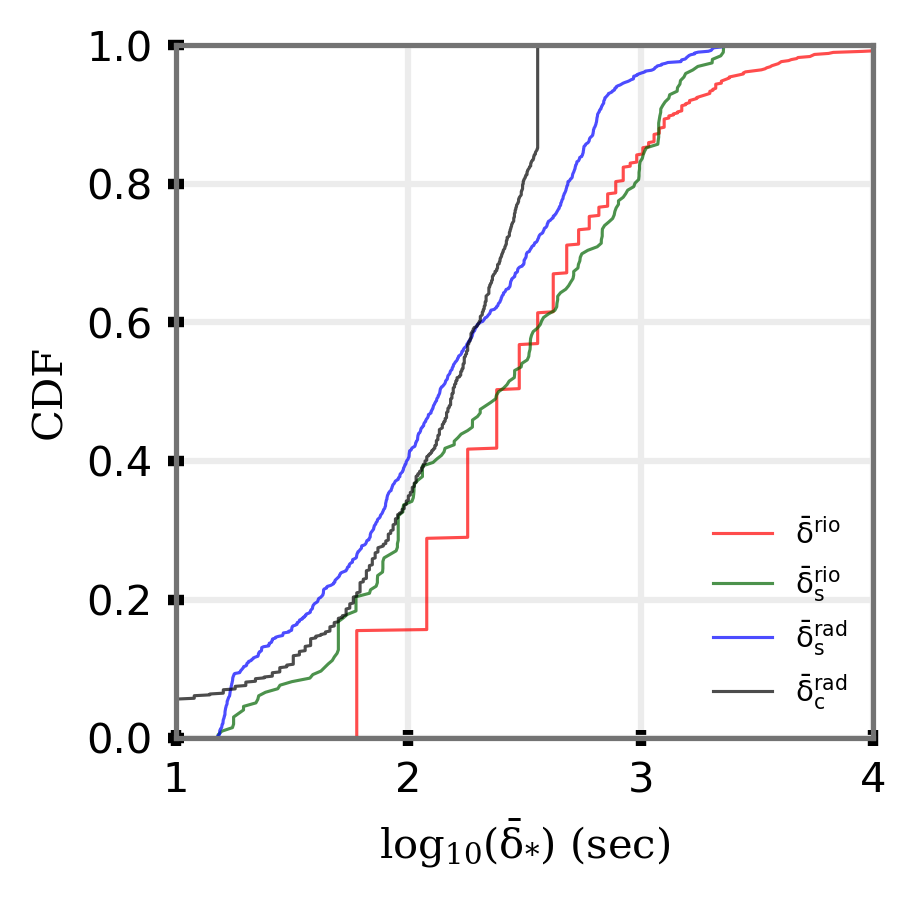
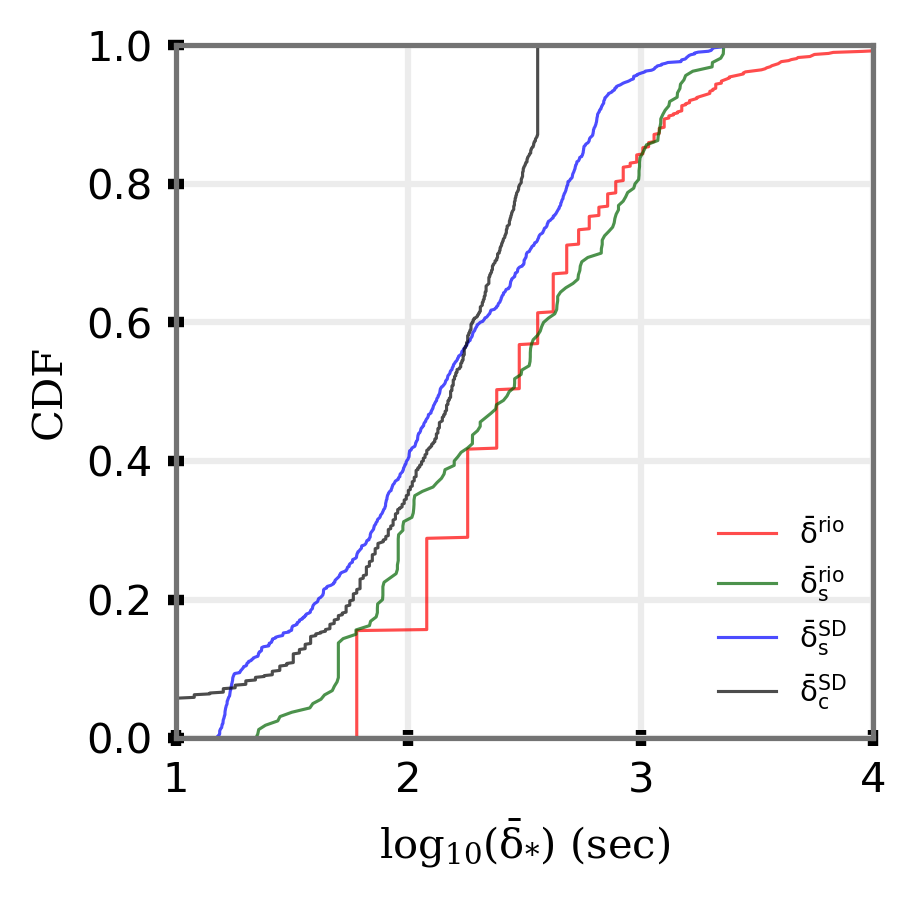
DOI

diff --git a/plot.py b/plot.py
@@ -343,10 +343,10 @@ class Statistics(object):
 
         fig, axes = plt.subplots(figsize=(9,9),nrows=4,ncols=4,dpi=120, sharey="row", sharex="col")
         fig.subplots_adjust(hspace=0.1, wspace=0.1)
-        axes[0,0].set_ylabel(r"$\bar{\delta}$ (sec)",fontdict=font)
-        axes[1,0].set_ylabel(r"$\bar{{\delta}_{s}}$ (sec)",fontdict=font)
-        axes[2,0].set_ylabel(r"$\bar{{\delta}_{s}}$ (sec)",fontdict=font)
-        axes[3,0].set_ylabel(r"$\bar{{\delta}_{c}}$ (sec)",fontdict=font)
+        axes[0,0].set_ylabel(r"$\bar{\delta}^{rio}$ (sec)",fontdict=font)
+        axes[1,0].set_ylabel(r"$\bar{{\delta}}_{s}^{rio}$ (sec)",fontdict=font)
+        axes[2,0].set_ylabel(r"$\bar{{\delta}}_{s}^{SD}$ (sec)",fontdict=font)
+        axes[3,0].set_ylabel(r"$\bar{{\delta}}_{c}^{SD}$ (sec)",fontdict=font)
         axes[0,3].text(1.05,0.5,"Riometer", horizontalalignment="center",
                 verticalalignment="center", transform=axes[0,3].transAxes,fontdict=fontT, rotation=90)
         axes[1,3].text(1.05,0.5,"Riometer", horizontalalignment="center",
@@ -369,11 +369,11 @@ class Statistics(object):
         Zvals = [[29.4,17.29,13.5,12.9],
                  [19.2,7.9,1.42,5.87],
                  [11.2,1.21,6.2,4.9],
-                 [0.59,1.09,2.90,2.98],]
+                 [0.59,1.09,3.90,4.5],]
         Pvals = [[0.,0.,0.,0.],
                  [0.,0.,0.34,0.],
                  [0.,0.37,0.01,0.019],
-                 [0.72,0.45,0.15,0.14],]
+                 [0.72,0.45,0.043,0.041],]
         files = ["csv/rio_c0.csv", "csv/rio_c1.csv", "csv/rad_c1.csv", "csv/rad_c2.csv"]
         for i, f in enumerate(files):
             df = pd.read_csv(f)
@@ -398,7 +398,7 @@ class Statistics(object):
             ax.set_ylim(1e2,1e4)
             ax.text(0.1,0.9,tags[i][0], horizontalalignment="center",
                     verticalalignment="center", transform=ax.transAxes,fontdict=fontT)
-            ax.text(0.6,0.7, r"$\delta$=%.1f$\chi$%s%d"%(popt[0], "-" if popt[1]<0 else "+", np.abs(popt[1]))+\
+            ax.text(0.55,0.7, r"$\delta$=%.1f$\chi$%s%d"%(popt[0], "-" if popt[1]<0 else "+", np.abs(popt[1]))+\
                     "\n"+r"$|z|=%.2f,P(>|z|)=%.2f$"%(Zvals[i][0], Pvals[i][0]), horizontalalignment="center",
                     verticalalignment="center", transform=ax.transAxes,fontdict=fontT)
             
@@ -417,7 +417,7 @@ class Statistics(object):
             ax.set_ylim(1e2,1e4)
             ax.text(0.1,0.9,tags[i][1], horizontalalignment="center",
                     verticalalignment="center", transform=ax.transAxes,fontdict=fontT)
-            ax.text(0.6,0.7, r"$\delta$=%.1f$\phi$%s%d"%(popt[0], "-" if popt[1]<0 else "+", np.abs(popt[1]))+\
+            ax.text(0.55,0.7, r"$\delta$=%.1f$\phi$%s%d"%(popt[0], "-" if popt[1]<0 else "+", np.abs(popt[1]))+\
                     "\n"+r"$|z|=%.2f,P(>|z|)=%.2f$"%(Zvals[i][1], Pvals[i][1]), horizontalalignment="center",
                     verticalalignment="center", transform=ax.transAxes,fontdict=fontT)
             
@@ -436,7 +436,7 @@ class Statistics(object):
             ax.set_xlim(0, 24)
             ax.text(0.1,0.9,tags[i][2], horizontalalignment="center",
                     verticalalignment="center", transform=ax.transAxes,fontdict=fontT)
-            ax.text(0.6,0.7, r"$\delta$=%.1f$(LT-12)^2$%s%d"%(popt[0], "-" if popt[1]<0 else "+", np.abs(popt[1]))+\
+            ax.text(0.55,0.7, r"$\delta$=%.1f$(LT-12)^2$%s%d"%(popt[0], "-" if popt[1]<0 else "+", np.abs(popt[1]))+\
                     "\n"+r"$|z|=%.2f,P(>|z|)=%.2f$"%(Zvals[i][2], Pvals[i][2]),
                     horizontalalignment="center",
                 verticalalignment="center", transform=ax.transAxes,fontdict=fontT)
@@ -463,7 +463,7 @@ class Statistics(object):
             ax.text(0.1,0.9,tags[i][3], horizontalalignment="center",
                     verticalalignment="center", transform=ax.transAxes,fontdict=fontT)
             x3 = r.params["x3"]
-            ax.text(0.6,0.7, r"$\delta$=%.1f$log_{10}I_{\infty}^{max}$"%(x3)+\
+            ax.text(0.55,0.7, r"$\delta$=%.1f$log_{10}I_{\infty}^{max}$"%(x3)+\
                     "\n"+r"$|z|=%.2f,P(>|z|)=%.2f$"%(Zvals[i][3], Pvals[i][3]), horizontalalignment="center",
                     verticalalignment="center", transform=ax.transAxes,fontdict=fontT)
             #if i==1: break
@@ -665,12 +665,15 @@ def plot_cdf():
     import scipy.stats as stats
     files = ["csv/rio_c0.csv", "csv/rio_c1.csv", "csv/rad_c1.csv", "csv/rad_c2.csv"]
     labels = [r"$\bar{\delta}^{rio}$", r"$\bar{\delta}_{s}^{rio}$", 
-            r"$\bar{\delta}_{s}^{rad}$", r"$\bar{\delta}_{c}^{rad}$"]
+            r"$\bar{\delta}_{s}^{SD}$", r"$\bar{\delta}_{c}^{SD}$"]
     fig, ax = plt.subplots(figsize=(3,3),nrows=1,ncols=1,dpi=90)
     C = ["r", "darkgreen", "blue", "black", "m"]
     for l, f in enumerate(files):
         dat = pd.read_csv(f)
+        if l == 1: dat = dat[(dat.dt>20) & (dat.sza<140) & (dat.sza>60)]
+        if l == 3: dat = dat[(dat.dt!=0) & (dat.dt!=360)]
         dat = dat[np.abs(dat.dt)>0]
+        print(np.max(dat.dt), np.min(dat.dt))
         x = np.log10(np.abs(dat.dt))
         x, y = sorted(x), np.arange(len(x)) / len(x)
         ax.plot(x, y, lw=0.75, alpha=0.7, label=labels[l], color=C[l])

diff --git a/model.py b/model.py
@@ -107,15 +107,15 @@ font["color"] = col
 ax.loglog(Iq, dtm, "blue",linewidth=0.75)
 ax.grid(False)
 ax.set_xlim(1e-6,1e-2)
-ax.set_ylabel(r"$\bar{\delta}$ (in "+r"sec)",fontdict=font)
+ax.set_ylabel(r"$\bar{\delta}^{rio}_{fitted}$ (in "+r"sec)",fontdict=font)
 ax.set_xticklabels([])
 
 ax = axes[1]
 font["color"] = "k"
 ax.set_xlabel(r"$I_{\infty}^{max}$"+" (in "+r"$Wm^{-2}$)",fontdict=font)
 ax.set_ylabel(r"$\alpha_{eff}$ (in "+r"$m^{3} sec^{-1})$",fontdict=font)
-ax.axhspan(ymin=1e-13,ymax=3e-13,color="m",alpha=0.4)
-ax.axhspan(ymax=1e-11,ymin=1e-12,color="b",alpha=0.4)
+ax.axhspan(ymin=1e-13,ymax=3e-13,color="r",alpha=0.6)
+ax.axhspan(ymax=1e-11,ymin=1e-12,color="b",alpha=0.6)
 ax.set_yscale("log")
 ax.set_xscale("log")
 ax.set_ylim(1e-16,1e-10)

diff --git a/README.md b/README.md
@@ -1,2 +1,4 @@
 # sd_rio_sluggishness
 Ionospheric Sluggishness: A Characteristic Time-Lag of the Ionospheric Response to Solar Flares
+
+Cite - [![DOI](https://zenodo.org/badge/284509724.svg)](https://zenodo.org/badge/latestdoi/284509724)
